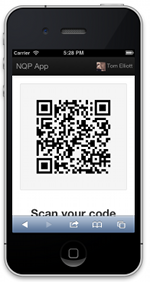
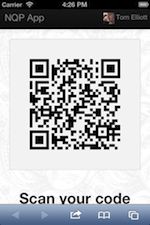
Try adding a light backgroudn to make the docs images look better

diff --git a/public/css/main.css b/public/css/main.css
@@ -2,6 +2,11 @@
    Author's custom styles
    ========================================================================== */
 
+body {
+  background-image: url('/img/background.png');
+  background-repeat: repeat;
+}
+
 .navbar .user-details {
   margin-top: 10px; /* Can probably fix this better some other way? */
 }
